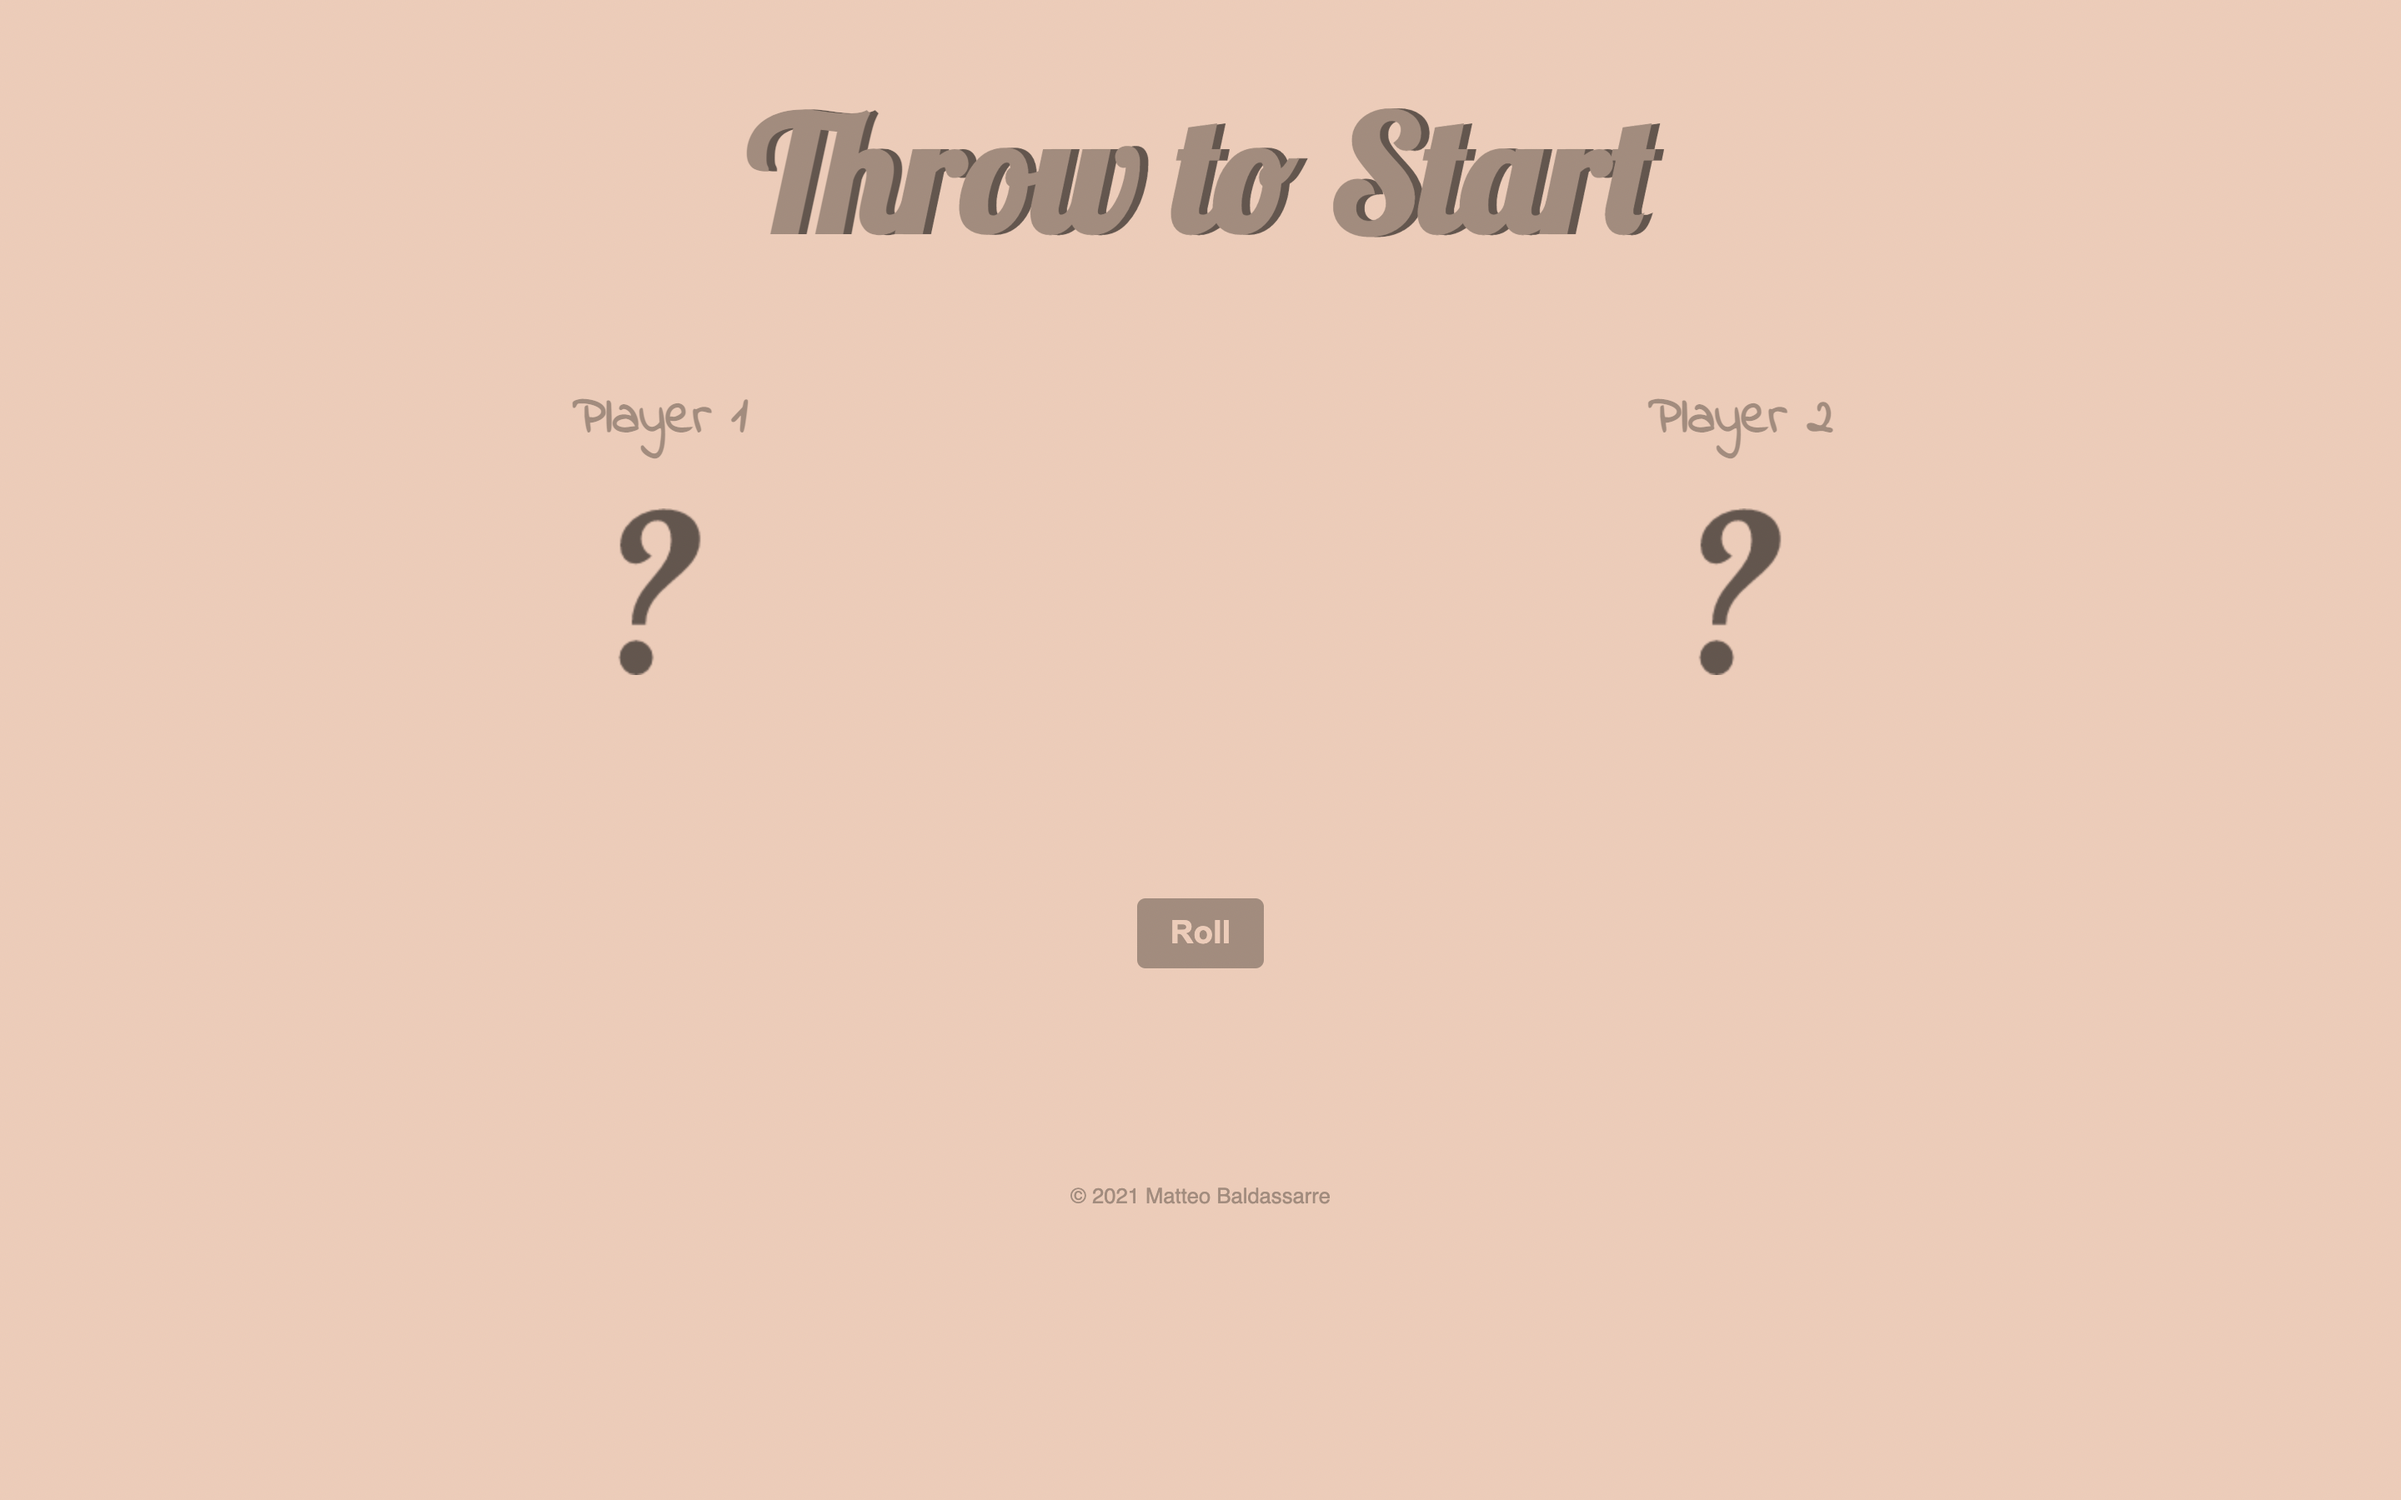
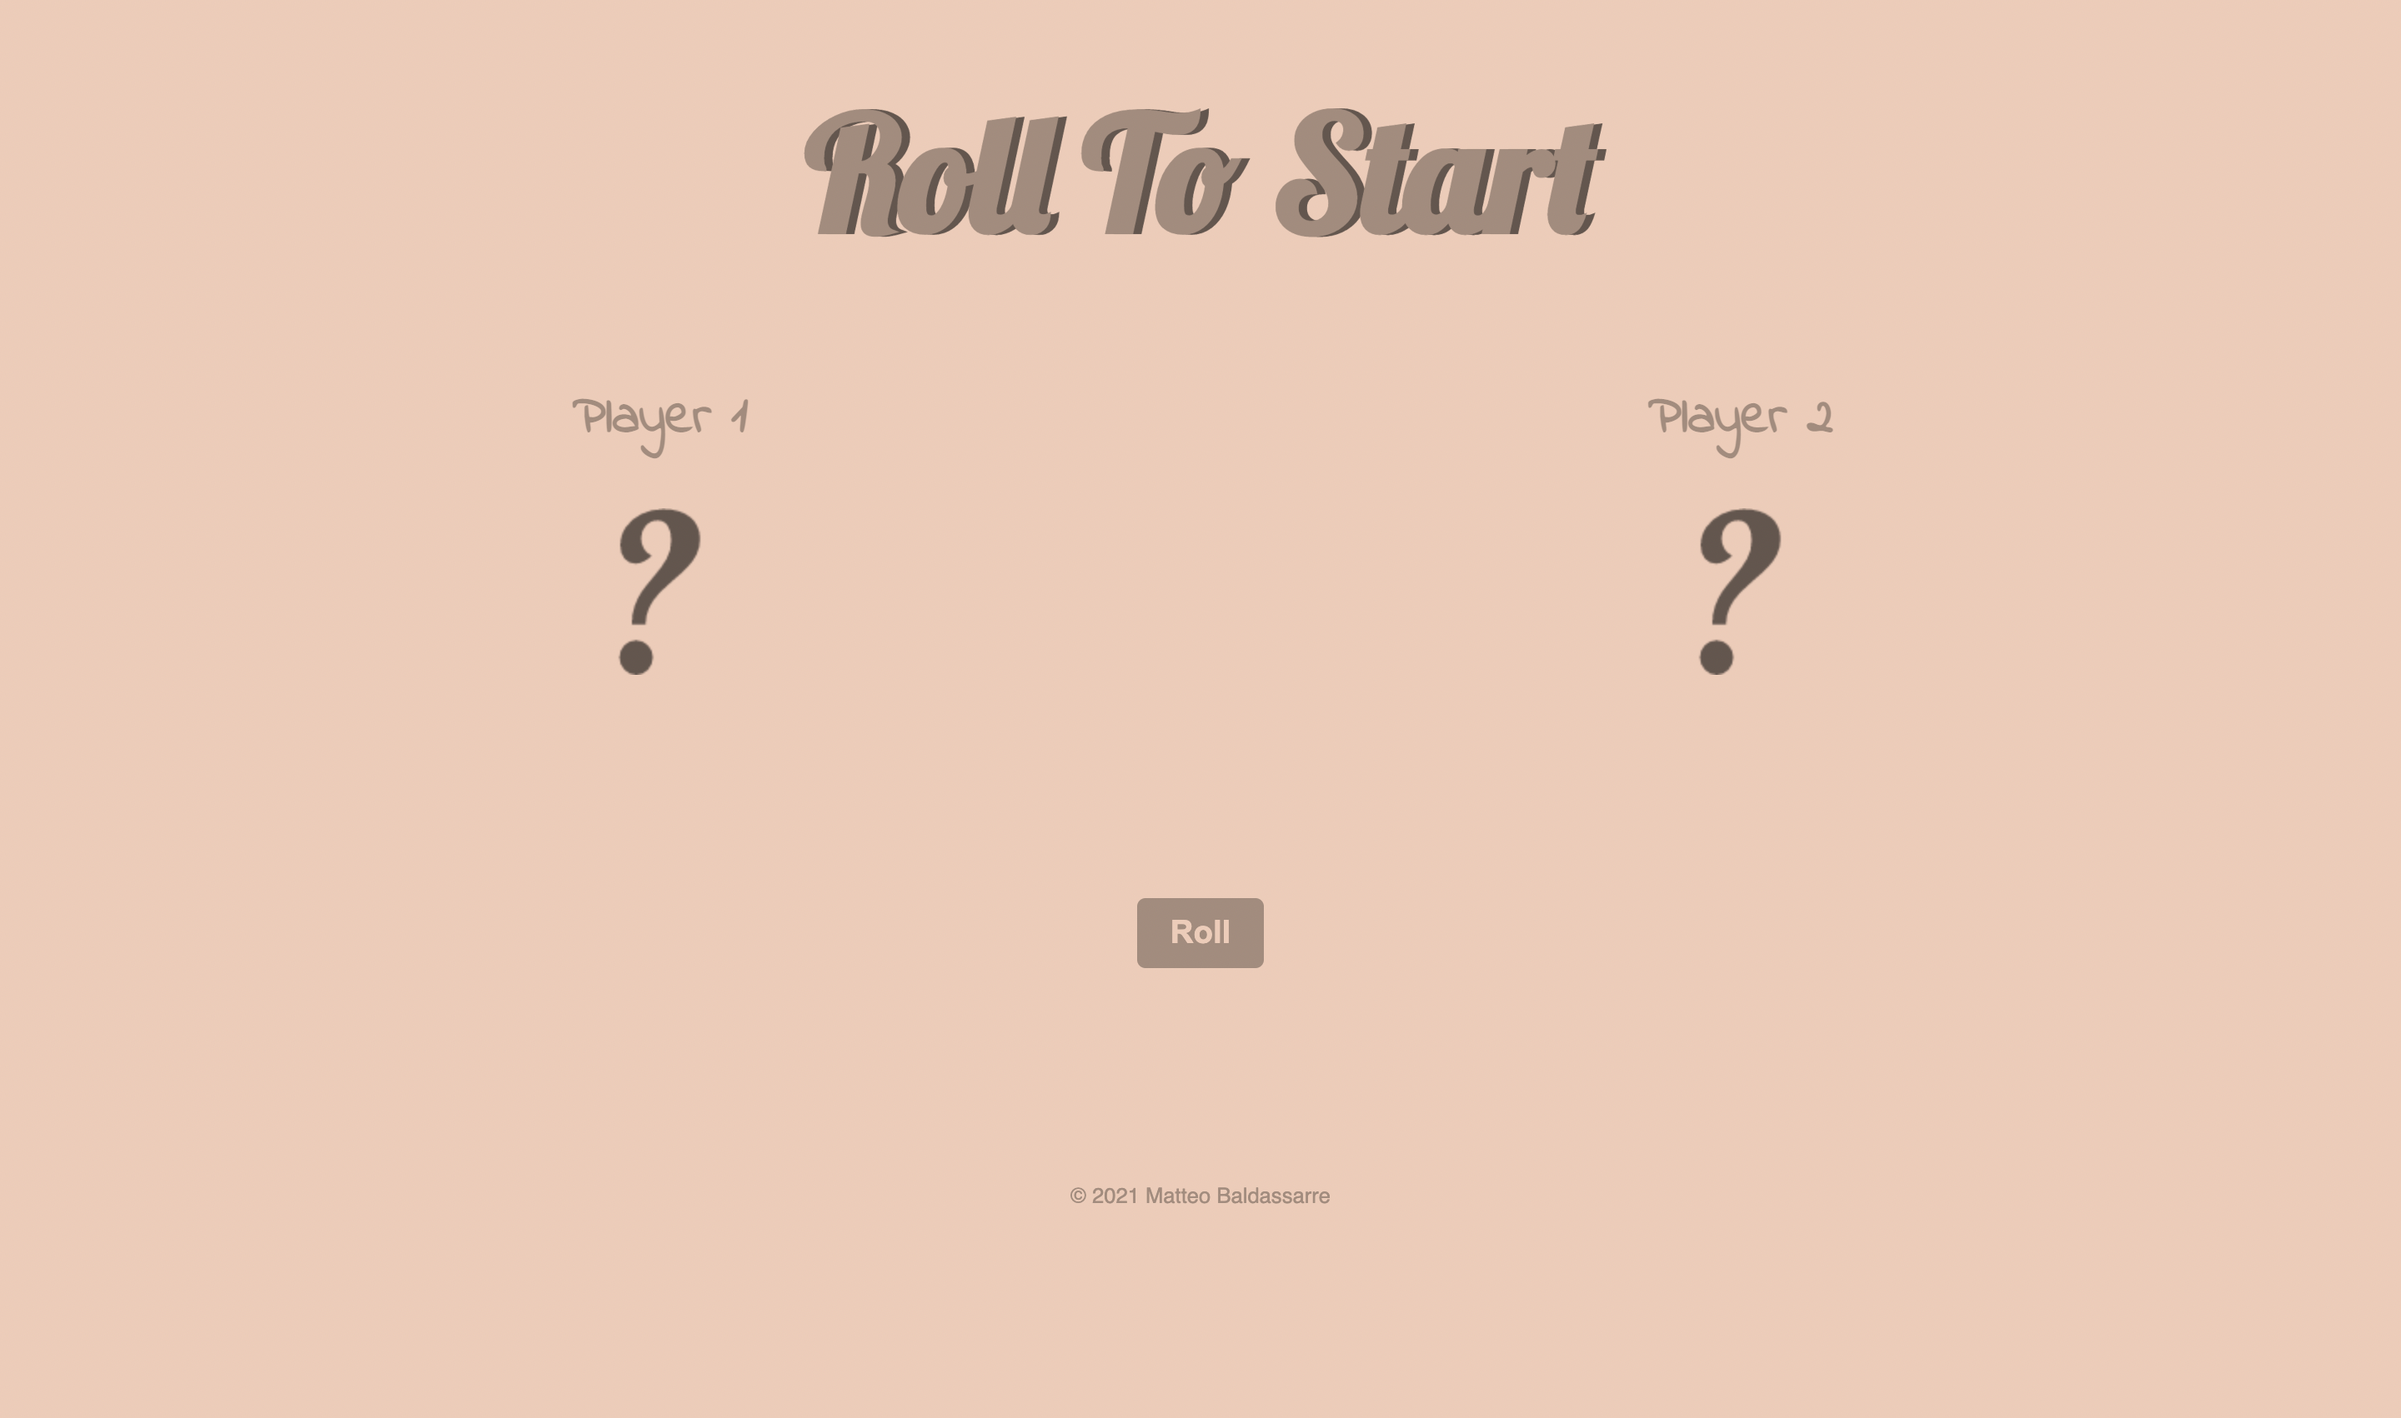
last fixes

diff --git a/index.html b/index.html
@@ -20,7 +20,7 @@
         <h2 id="welcome">The Dicee Game</h2>
 
         <!-- Heading -->
-        <h1 id="result">Roll to Start</h1>
+        <h1 id="result">Roll To Start</h1>
 
         <div class="players">
             <!-- Player One -->
